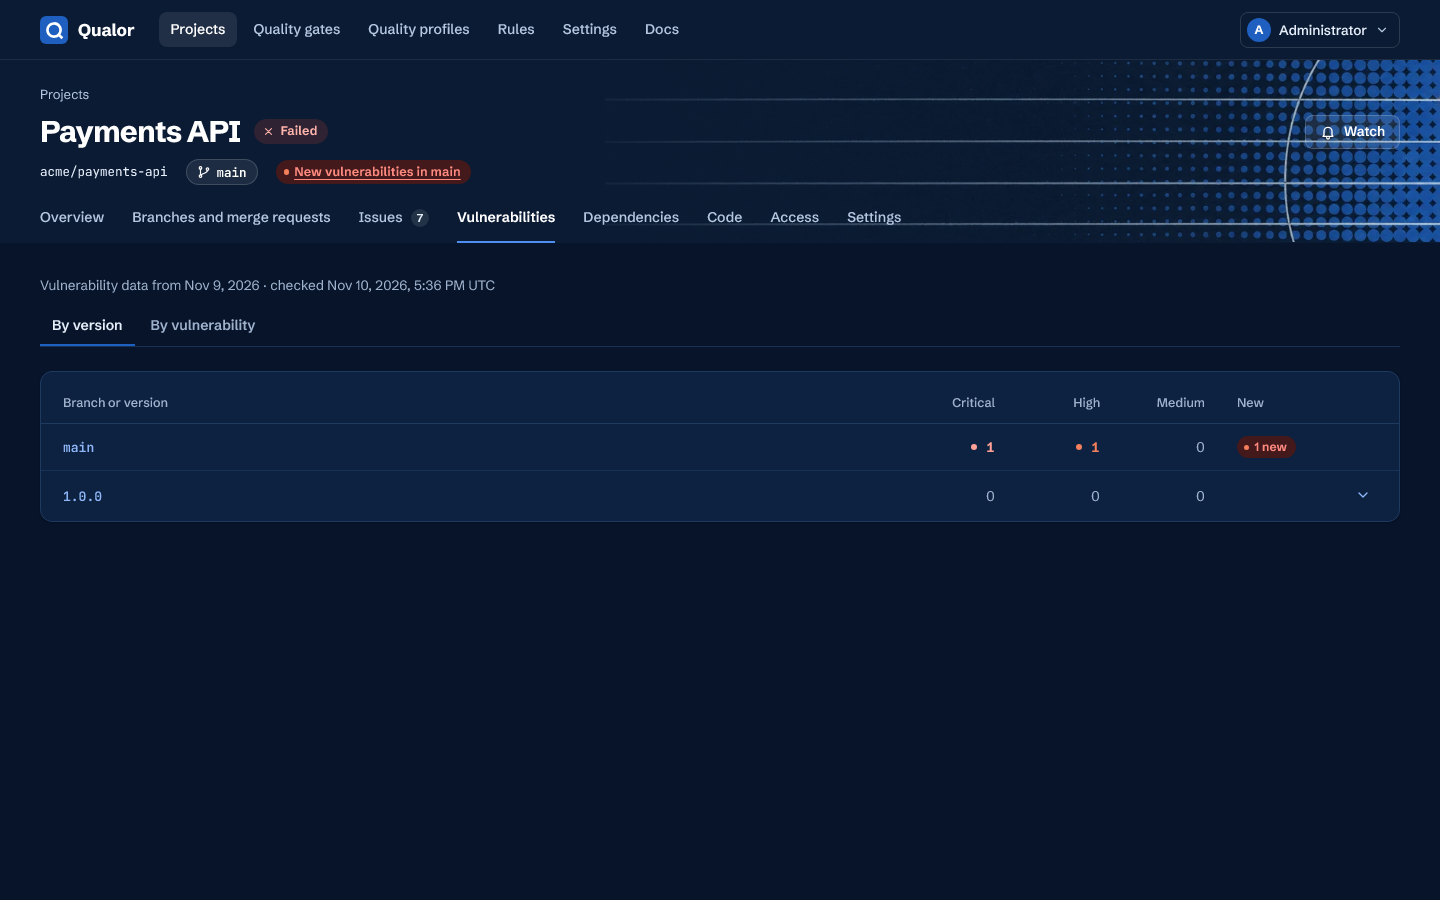
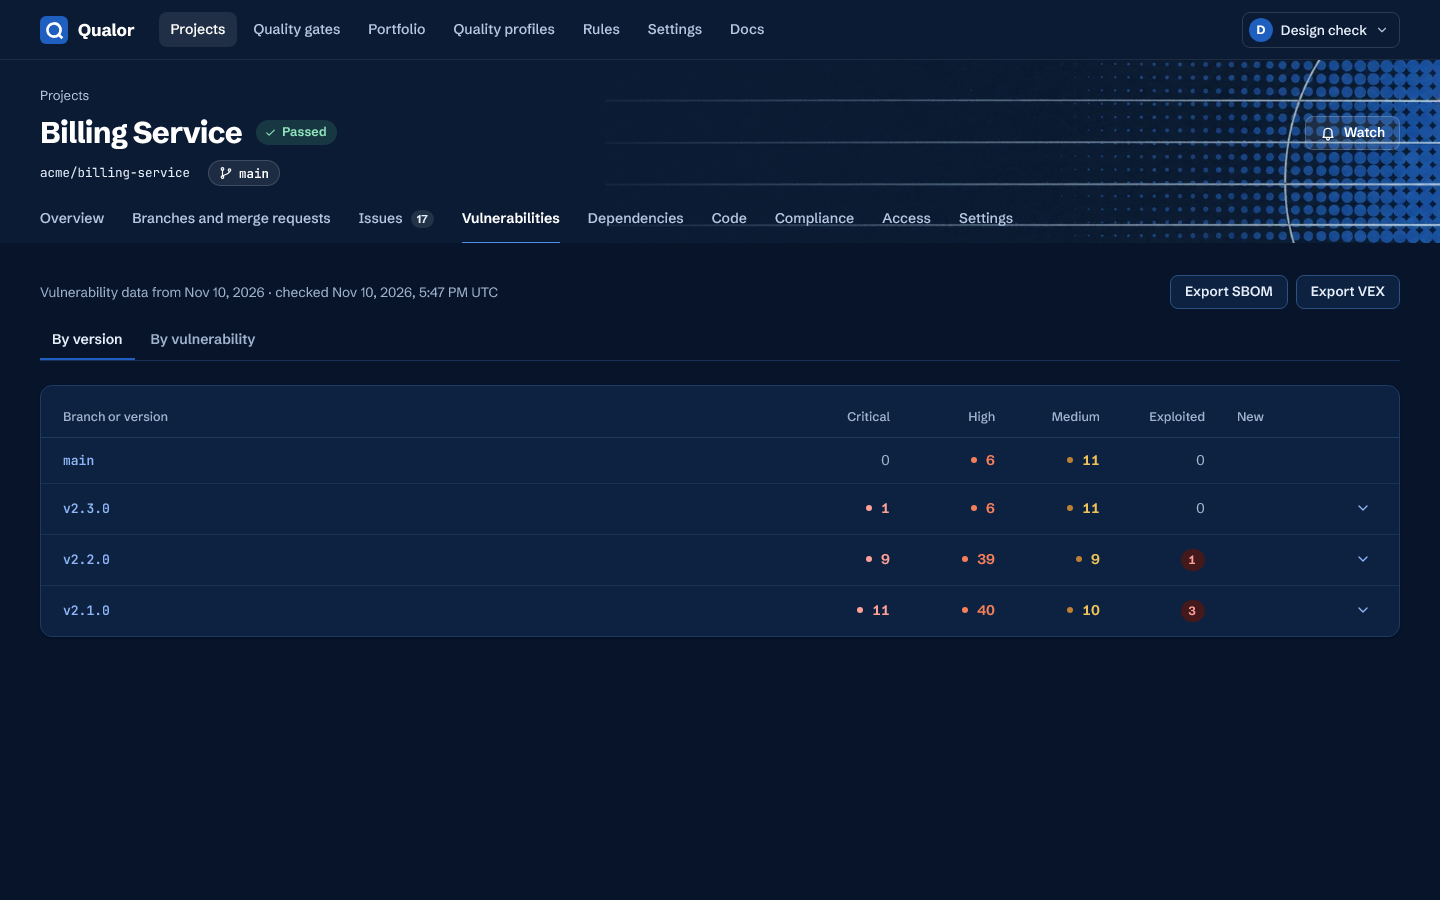
docs: vulnerability screenshots with exploited vulnerabilities and released versions

diff --git a/README.md b/README.md
@@ -26,12 +26,12 @@ It is free, with no lines-of-code licence.
   </tr>
   <tr>
     <td width="50%" valign="top">
-      <img src="docs/screenshots/vulnerabilities-by-version.png" alt="A project's Vulnerabilities tab by version: the main branch with one Critical and one High vulnerability, one of them new, and the released version 1.0.0 with none">
+      <img src="docs/screenshots/vulnerabilities-by-version.png" alt="A project's Vulnerabilities tab by version: the main branch and three released versions, each with its Critical, High and Medium counts, and the exploited vulnerabilities in v2.1.0 and v2.2.0">
       <br><sub><b>Vulnerabilities</b> of each branch and released version</sub>
     </td>
     <td width="50%" valign="top">
-      <img src="docs/screenshots/vulnerabilities-by-vulnerability.png" alt="The same tab by vulnerability: a new Critical in handlebars with its fixed version, found without a scan, and a High in lodash, each with the branches and versions it is in and a Change status button">
-      <br><sub><b>By vulnerability</b>, with fixed versions and triage</sub>
+      <img src="docs/screenshots/vulnerabilities-by-vulnerability.png" alt="The same tab by vulnerability: Log4Shell and Spring4Shell first, as Critical and exploited, each with its fixed versions, exploit probability, the versions it is in and a Change status button">
+      <br><sub><b>By vulnerability</b>, exploited ones first, with fixed versions</sub>
     </td>
   </tr>
   <tr>
